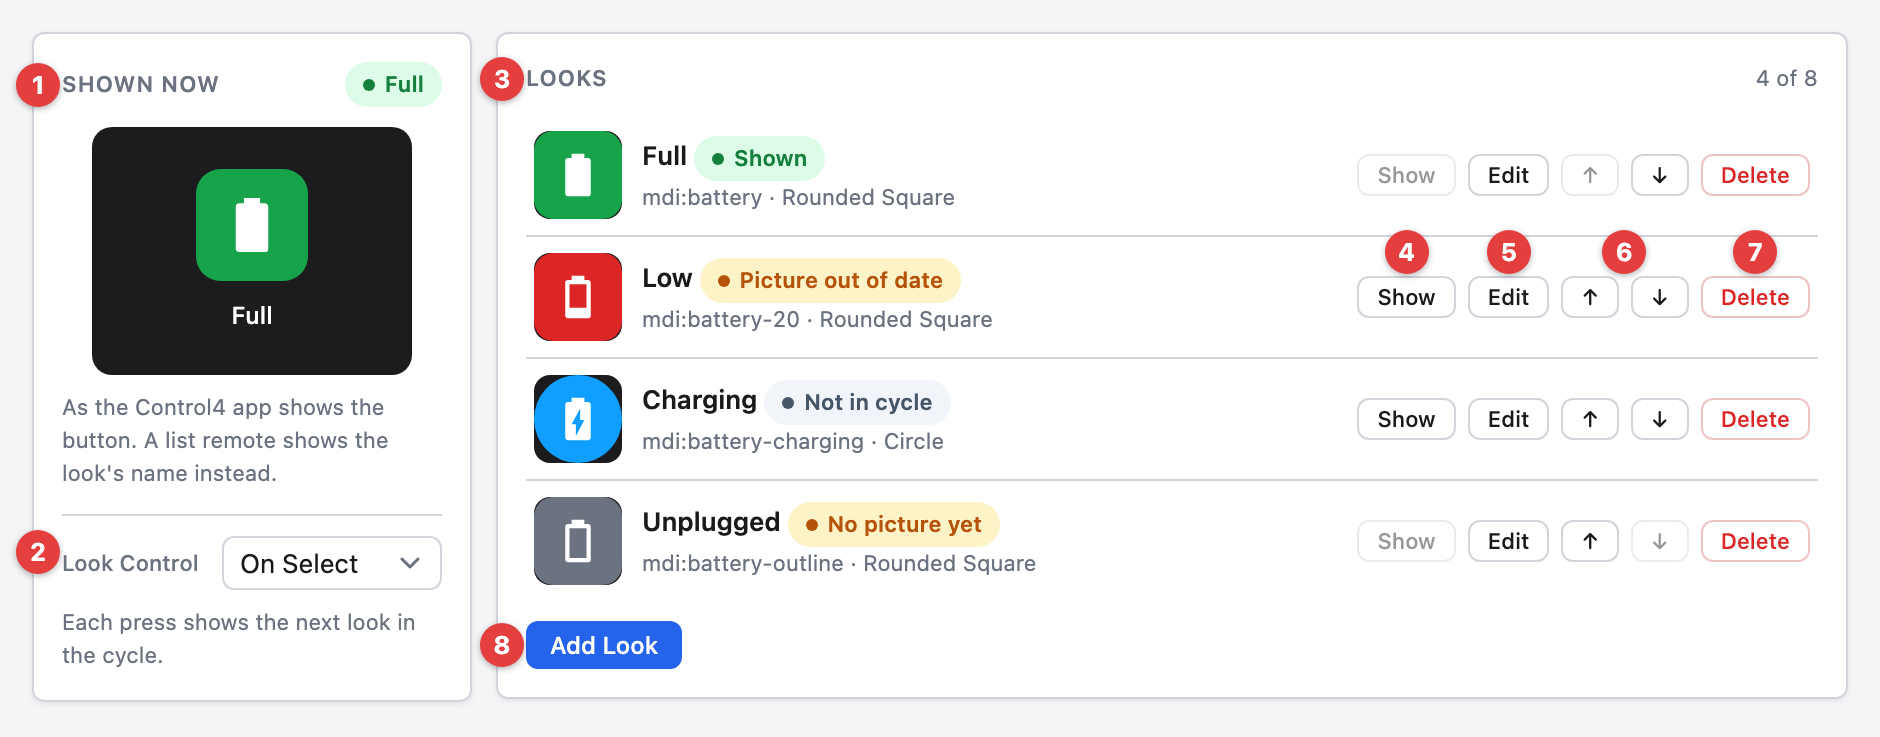
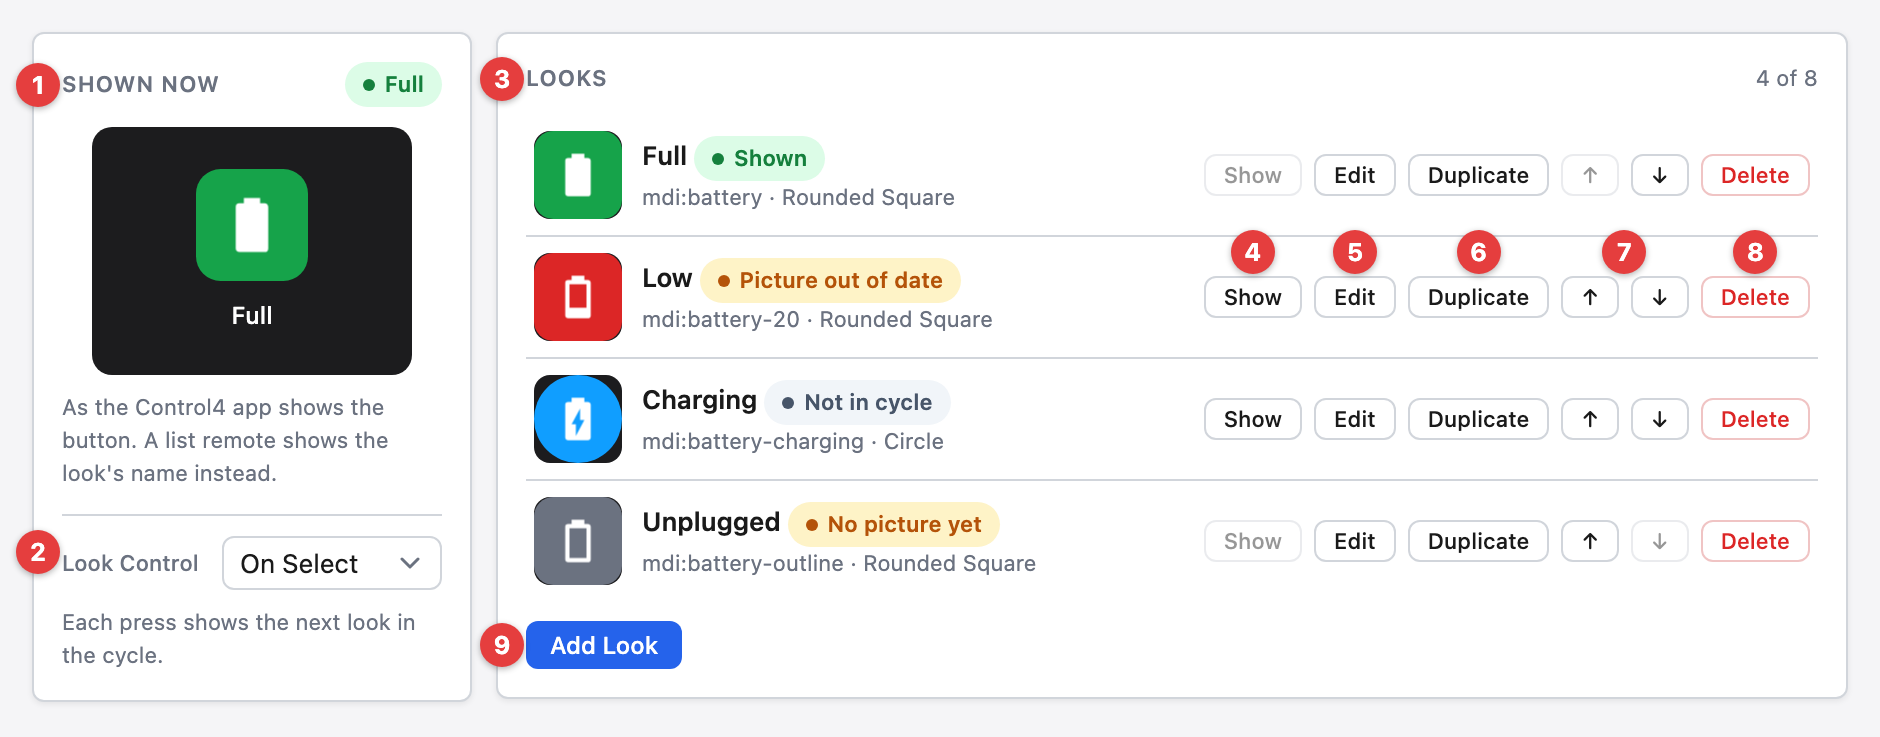
feat: a look can be duplicated from its row (#27)
* feat: a look can be duplicated from its row

* fix: a copy isn't the default look on a button with none

* test: a copy isn't the default look

diff --git a/drivers/dynamic_button/www/html/index.html b/drivers/dynamic_button/www/html/index.html
@@ -1296,6 +1296,7 @@ async function renderList() {
       '<div class="acts">' +
         '<button class="btn btn-secondary sm" type="button" data-act="show" data-id="' + id + '"' + (l.hasImage && id !== gState.shown ? '' : ' disabled') + '>Show</button>' +
         '<button class="btn btn-secondary sm" type="button" data-act="edit" data-id="' + id + '">Edit</button>' +
+        '<button class="btn btn-secondary sm" type="button" data-act="copy" data-id="' + id + '"' + (list.length >= gState.max ? ' disabled title="A button has up to ' + gState.max + ' looks."' : '') + '>Duplicate</button>' +
         '<button class="btn btn-secondary sm" type="button" data-act="up" data-id="' + id + '"' + (i === 0 ? ' disabled' : '') + ' aria-label="Move up">&uarr;</button>' +
         '<button class="btn btn-secondary sm" type="button" data-act="down" data-id="' + id + '"' + (i === list.length - 1 ? ' disabled' : '') + ' aria-label="Move down">&darr;</button>' +
         '<button class="btn danger sm" type="button" data-act="delete" data-id="' + id + '" title="' + esc(deleteWarning(l.name)) + '">Delete</button>' +
@@ -1315,6 +1316,7 @@ $('look-list').addEventListener('click', function(e) {
   var id = Number(b.dataset.id), act = b.dataset.act;
   if (act === 'show') command('_SHOW_LOOK', { id: id }, function() { gState.shown = id; });
   else if (act === 'edit') openEditor(gState.looks.find(function(l) { return l.id === id; }));
+  else if (act === 'copy') duplicateLook(gState.looks.find(function(l) { return l.id === id; }));
   else if (act === 'up' || act === 'down') move(id, act === 'up' ? -1 : 1);
   else if (act === 'delete') {
     if (b.dataset.confirm) {
@@ -1973,7 +1975,23 @@ function preview() {
   navTile($('edit-tile'), drawn, 300);
 }
 
-function openEditor(look) {
+// A name no other look has: the next number after the look's own, "Fan" to "Fan 2", "Fan 2" to "Fan 3".
+function copyName(name) {
+  var m = /^(.*?)(?: (\d+))?$/.exec(name), n = m[2] ? Number(m[2]) + 1 : 2, out;
+  var taken = function(x) { return gState.looks.some(function(o) { return o.name.toLowerCase() === x.toLowerCase(); }); };
+  do {
+    var suffix = ' ' + n++;
+    out = Array.from(m[1]).slice(0, 40 - suffix.length).join('') + suffix;
+  } while (taken(out));
+  return out;
+}
+// The editor on a copy of a look, saved as a new look with its own picture.
+function duplicateLook(look) {
+  if (!look || gState.looks.length >= gState.max) return;
+  var copy = Object.assign(JSON.parse(JSON.stringify(look)), { id: null, name: copyName(look.name) });
+  openEditor(copy, 'Copy of ' + look.name);
+}
+function openEditor(look, title) {
   gEditor.look = look
     ? JSON.parse(JSON.stringify(look))
     : { id: null, name: '', icon: null, iconColor: '#FFFFFF', tileShape: 'Rounded Square', tileColor: '#109EFF', inCycle: true, glow: 100, grayscale: false };
@@ -1982,14 +2000,14 @@ function openEditor(look) {
   gEditor.look.custom = gEditor.look.custom || {};
   gEditor.icon = gEditor.look.icon;
   gEditor.shapeBefore = null;
-  $('editor-title').textContent = look ? 'Edit ' + look.name : 'New look';
+  $('editor-title').textContent = title || (look ? 'Edit ' + look.name : 'New look');
   $('f-name').value = gEditor.look.name;
   $('f-icon-color').value = gEditor.look.iconColor.toLowerCase();
   $('f-tile-color').value = gEditor.look.tileColor.toLowerCase();
   $('f-in-cycle').checked = gEditor.look.inCycle !== false;
   $('f-glow').value = gEditor.look.glow;
   $('f-grayscale').checked = gEditor.look.grayscale;
-  gEditor.look.isDefault = !!look && gState.defaultLook === look.id;
+  gEditor.look.isDefault = !!look && look.id != null && gState.defaultLook === look.id;
   $('f-when').value = gEditor.look.showWhen || '';
   $('f-default').checked = gEditor.look.isDefault;
   $('fld-when-browser').hidden = true;

diff --git a/README.md b/README.md
@@ -134,6 +134,9 @@ the button's looks.
 1. **Show** - shows the look now. It is off for the shown look and for a look
    with no picture.
 1. **Edit** - opens the look in the editor.
+1. **Duplicate** - opens the editor on a copy of the look, named with the next
+   number, and `Save Look` adds it as a new look. It is off when the button has
+   eight looks.
 1. **↑ / ↓** - moves the look up or down. The button cycles through the looks in
    this order, and programming lists them in it.
 1. **Delete** - deletes the look, its picture, and its `Shown` event with the
@@ -565,6 +568,7 @@ Template for a new release entry (copy below the heading, fill in, uncomment):
 - Added Glow and Grayscale to each look: Glow sets a Classic Device picture's
   glow from none to twice its own, and Grayscale draws any picture in grays with
   no glow, its gray version beside the packs' own on and off pictures
+- Added Duplicate to each look, which opens a copy of it in the editor
 - Added Icon and Badge sections to each look: the picture's colors with its
   shading kept, the glow's color, its size and position, and a badge of up to
   five characters in the size you pick

diff --git a/drivers/dynamic_button/www/documentation/index.md b/drivers/dynamic_button/www/documentation/index.md
@@ -199,6 +199,9 @@ The Support Code is entered in Composer's "Properties" tab only.
 1. **Show** - shows the look now. It is off for the shown look and for a look
    with no picture.
 1. **Edit** - opens the look in the editor.
+1. **Duplicate** - opens the editor on a copy of the look, named with the next
+   number, and `Save Look` adds it as a new look. It is off when the button has
+   eight looks.
 1. **↑ / ↓** - moves the look up or down. The button cycles through the looks in
    this order, and programming lists them in it.
 1. **Delete** - deletes the look, its picture, and its `Shown` event with the

diff --git a/CHANGELOG.md b/CHANGELOG.md
@@ -45,6 +45,7 @@ Template for a new release entry (copy below the heading, fill in, uncomment):
 - Added Glow and Grayscale to each look: Glow sets a Classic Device picture's
   glow from none to twice its own, and Grayscale draws any picture in grays with
   no glow, its gray version beside the packs' own on and off pictures
+- Added Duplicate to each look, which opens a copy of it in the editor
 - Added Icon and Badge sections to each look: the picture's colors with its
   shading kept, the glow's color, its size and position, and a badge of up to
   five characters in the size you pick
